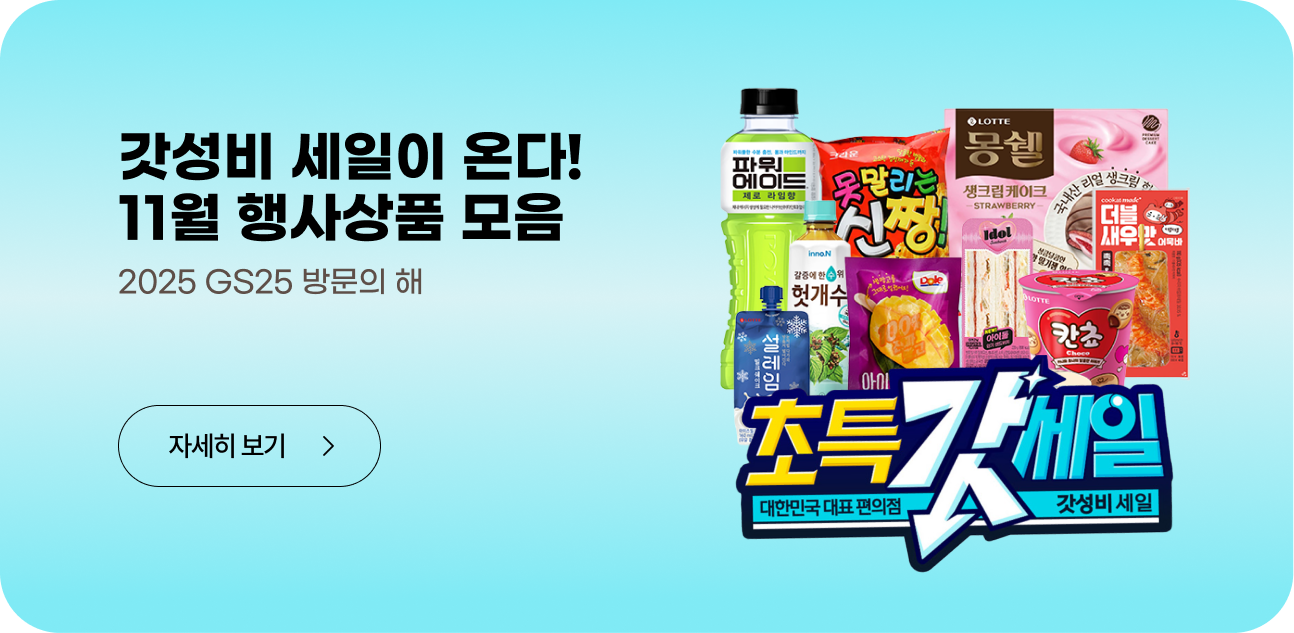
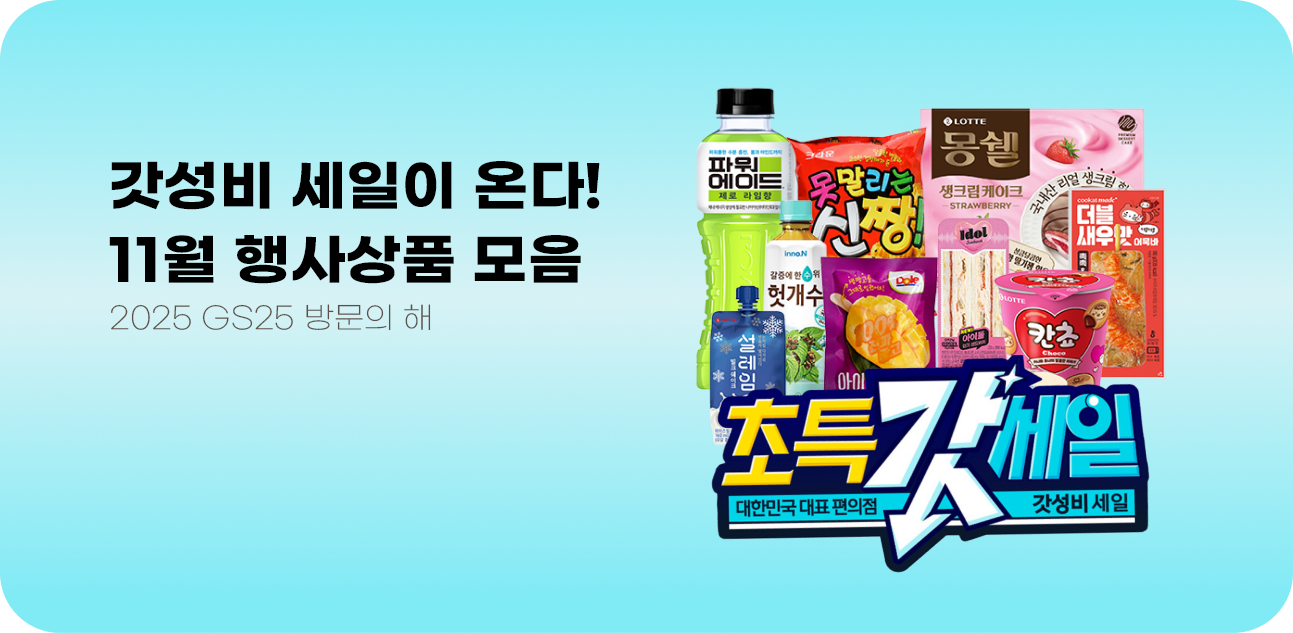
1203 web

Changed region(s): [[0.5259, 0.1201, 0.9281, 0.9005], [0.0619, 0.2101, 0.464, 0.5403], [0.1237, 0.6904, 0.2166, 0.7204]]

diff --git a/project/GS25/index.html b/project/GS25/index.html
@@ -40,21 +40,44 @@
         <div class="swiper bannerSwiper">
           <div class="swiper-wrapper">
             <div class="swiper-slide">
-              <img src="../GS25/images/main_ad.png" alt="banner1" />
+              <div class="banner_content">
+                <img src="../GS25/images/main_ad.png" alt="banner1" />
+                <div class="banner_overlay">
+                  <a href="#" class="banner_more_btn">
+                    <span>자세히 보기</span>
+                    <i class="fa-solid fa-arrow-right"></i>
+                  </a>
+                </div>
+              </div>
             </div>
             <div class="swiper-slide">
-              <img src="../GS25/images/main_ad1.png" alt="banner1" />
+              <div class="banner_content">
+                <img src="../GS25/images/main_ad1.png" alt="banner2" />
+                <div class="banner_overlay">
+                  <a href="#" class="banner_more_btn">
+                    <span>자세히 보기</span>
+                    <i class="fa-solid fa-arrow-right"></i>
+                  </a>
+                </div>
+              </div>
             </div>
             <div class="swiper-slide">
-              <img src="../GS25/images/main_ad3.png" alt="banner1" />
-            </div>
-            <div class="swiper-slide">
-              <img src="../GS25/images/main_ad4.png" alt="banner1" />
+              <div class="banner_content">
+                <img src="../GS25/images/main_ad3.png" alt="banner3" />
+                <div class="banner_overlay">
+                  <a href="#" class="banner_more_btn">
+                    <span>자세히 보기</span>
+                    <i class="fa-solid fa-arrow-right"></i>
+                  </a>
+                </div>
+              </div>
             </div>
           </div>
+          <!-- //.swiper-wrapper -->
           <div class="swiper-pagination"></div>
         </div>
       </section>
+      <!-- //.banner -->
 
       <!-- Product Section -->
       <section class="product">
@@ -236,7 +259,7 @@
         <div class="search_container">
           <div class="search_left">
             <div class="search_top_txt">
-              <h2 class="search_title">우리 동네 GS25<br />어디있나요?</h2>
+              <h2 class="search_title">우리 동네 GS25<br/>어디있나요?</h2>
               <p class="search_subtitle">가까운 매장을 확인해보세요</p>
             </div>
 
@@ -795,14 +818,28 @@
         <div class="footer_notice">
           <div class="notice_header">
             <h3 class="notice_title">공지사항</h3>
-            <a href="http://gs25.gsretail.com/gscvs/ko/customer-satisfaction/notice" class="notice_more">더보기+</a>
+            <a
+              href="http://gs25.gsretail.com/gscvs/ko/customer-satisfaction/notice"
+              class="notice_more"
+              >더보기+</a
+            >
           </div>
           <div class="notice_list">
-            <a href="http://gs25.gsretail.com/gscvs/ko/customer-satisfaction/noticeDetail?pageNum=1&articleCode=8830696083046" class="notice_item"
+            <a
+              href="http://gs25.gsretail.com/gscvs/ko/customer-satisfaction/noticeDetail?pageNum=1&articleCode=8830696083046"
+              class="notice_item"
               >[공지]GS리테일 개인정보 처리방침 개정 안내</a
             >
-            <a href="http://gs25.gsretail.com/gscvs/ko/customer-satisfaction/noticeDetail?pageNum=1&articleCode=8830728851046" class="notice_item">[공지]GS리테일 영상정보처리기기 운영·관리방침 개정 안내</a>
-            <a href="http://gs25.gsretail.com/gscvs/ko/customer-satisfaction/noticeDetail?pageNum=1&articleCode=8830597779046" class="notice_item">[공지]2025년 추석 연휴 고객센터 운영시간 안내</a>
+            <a
+              href="http://gs25.gsretail.com/gscvs/ko/customer-satisfaction/noticeDetail?pageNum=1&articleCode=8830728851046"
+              class="notice_item"
+              >[공지]GS리테일 영상정보처리기기 운영·관리방침 개정 안내</a
+            >
+            <a
+              href="http://gs25.gsretail.com/gscvs/ko/customer-satisfaction/noticeDetail?pageNum=1&articleCode=8830597779046"
+              class="notice_item"
+              >[공지]2025년 추석 연휴 고객센터 운영시간 안내</a
+            >
           </div>
         </div>
       </div>

diff --git a/project/GS25/css/main_style.css b/project/GS25/css/main_style.css
@@ -185,6 +185,12 @@ header {
   opacity: 1;
 }
 
+.banner_content {
+  position: relative;
+  width: 100%;
+  height: 100%;
+}
+
 .bannerSwiper .swiper-slide img {
   width: 100%;
   height: auto;
@@ -192,12 +198,68 @@ header {
   border-radius: 20px;
 }
 
+/* 기본 배너 오버레이 */
+.banner_overlay {
+  position: absolute;
+  bottom: 0;
+  left: 0;
+  width: 100%;
+  height: 100%;
+  display: flex;
+  flex-direction: column;
+  justify-content: flex-end;
+  align-items: flex-start;
+  padding: 140px 100px;
+  border-radius: 20px;
+  opacity: 1;
+}
+
+/* 자세히 보기 버튼 */
+.banner_more_btn {
+  display: flex;
+  align-items: center;
+  justify-content: space-between;
+  width: 220px;
+  height: 72px;
+  padding: 0 32px;
+  background: transparent;
+  border: 2px solid #000;
+  border-radius: 36px;
+  color: #000;
+  font-family: var(--font-free);
+  font-weight: 500;
+  text-decoration: none;
+  transition: all 0.3s ease;
+  cursor: pointer;
+}
+
+.banner_more_btn:hover {
+  background: #fff;
+  color: var(--black);
+  border-color: #fff;
+}
+
+.banner_more_btn span {
+  font-size: 22px;
+}
+
+.banner_more_btn i {
+  font-size: 16px;
+  transition: transform 0.3s ease;
+}
+
+.banner_more_btn:hover i {
+  transform: translateX(5px);
+}
+
 .bannerSwiper .swiper-pagination {
-  bottom: 20px;
+  position: relative;
+  bottom: auto;
+  margin-top: 20px;
 }
 
 .bannerSwiper .swiper-pagination-bullet {
-  background: #fff;
+  background: #71787f;
   opacity: 0.5;
 }
 
@@ -205,7 +267,6 @@ header {
   opacity: 1;
   background: #00bcd4;
 }
-
 /* ========== Product Section ========== */
 .product {
   width: 100%;
@@ -339,7 +400,9 @@ header {
 .search {
   width: 100%;
   padding: 100px 40px;
-  background-color: #f5f5f5;
+  /* background: linear-gradient(180deg, #fff6e9 0%, #fffaf2 10%, #fff 50%); */
+  /* background-color: #fffaf2; */
+  background-color: #eeebe350;
 }
 
 .search_container {
@@ -365,6 +428,7 @@ header {
   display: flex;
   flex-direction: column;
   gap: 5px;
+  padding: 0px 10px;
 }
 
 .search_title {
